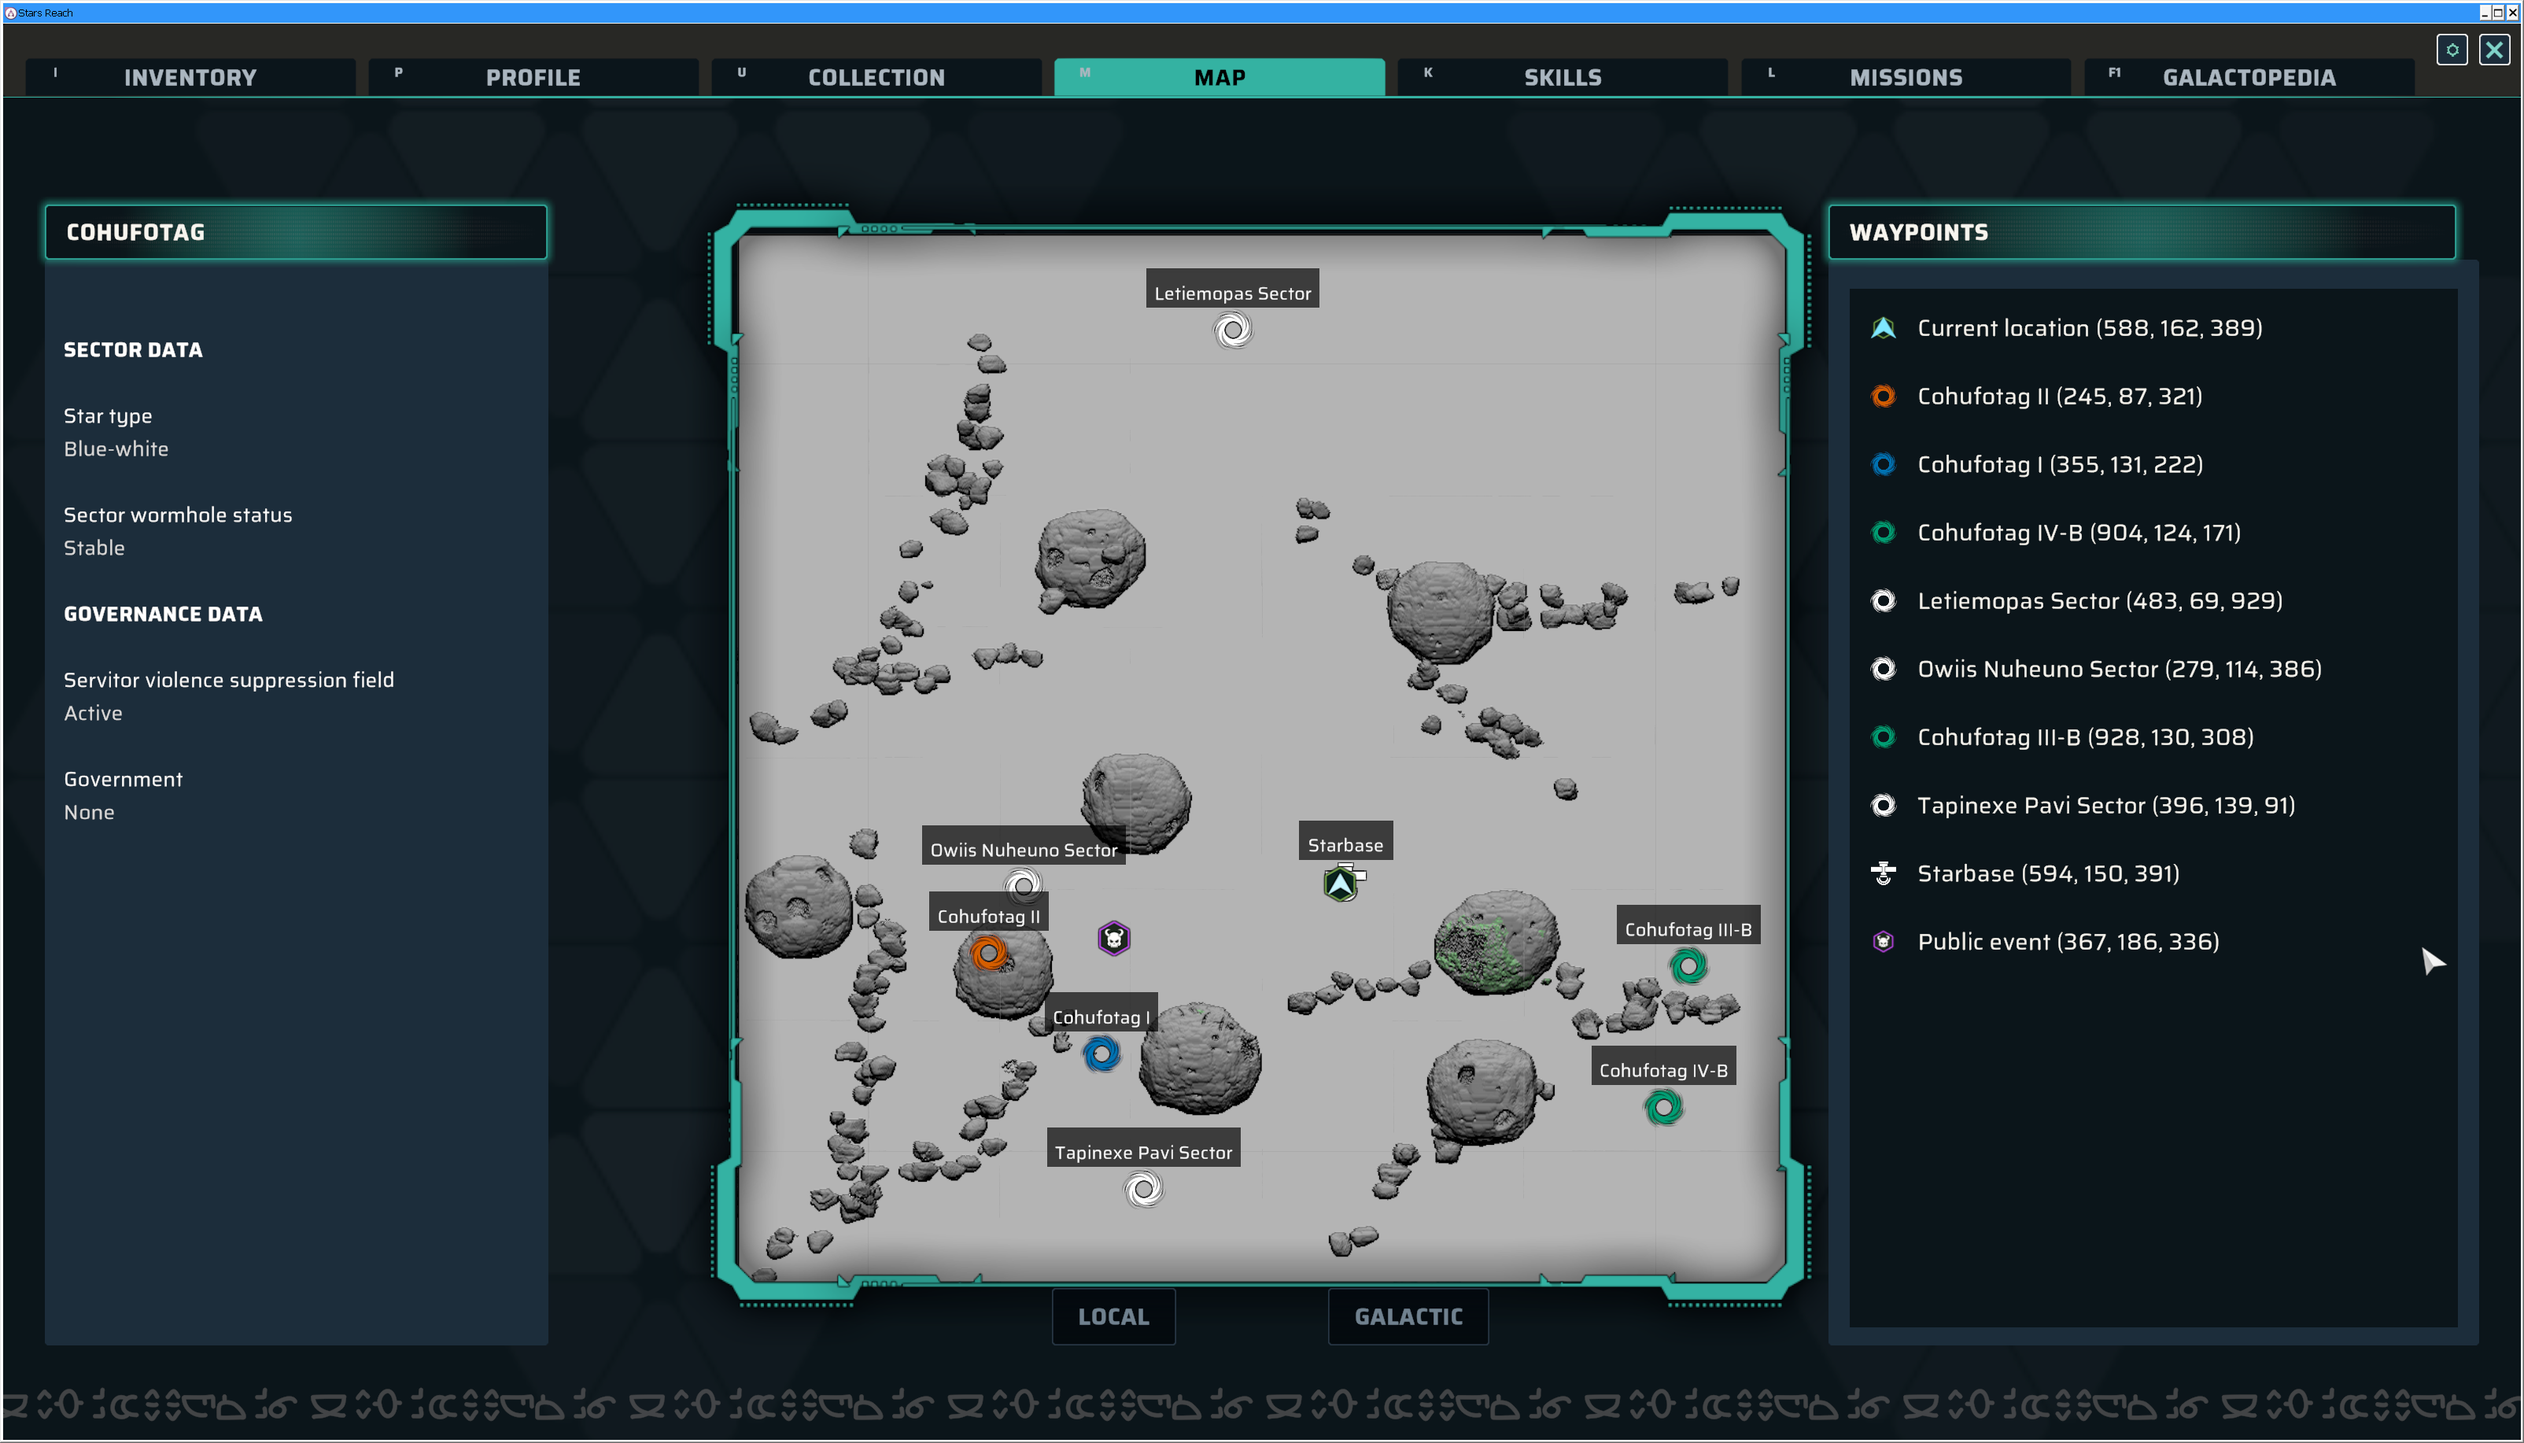
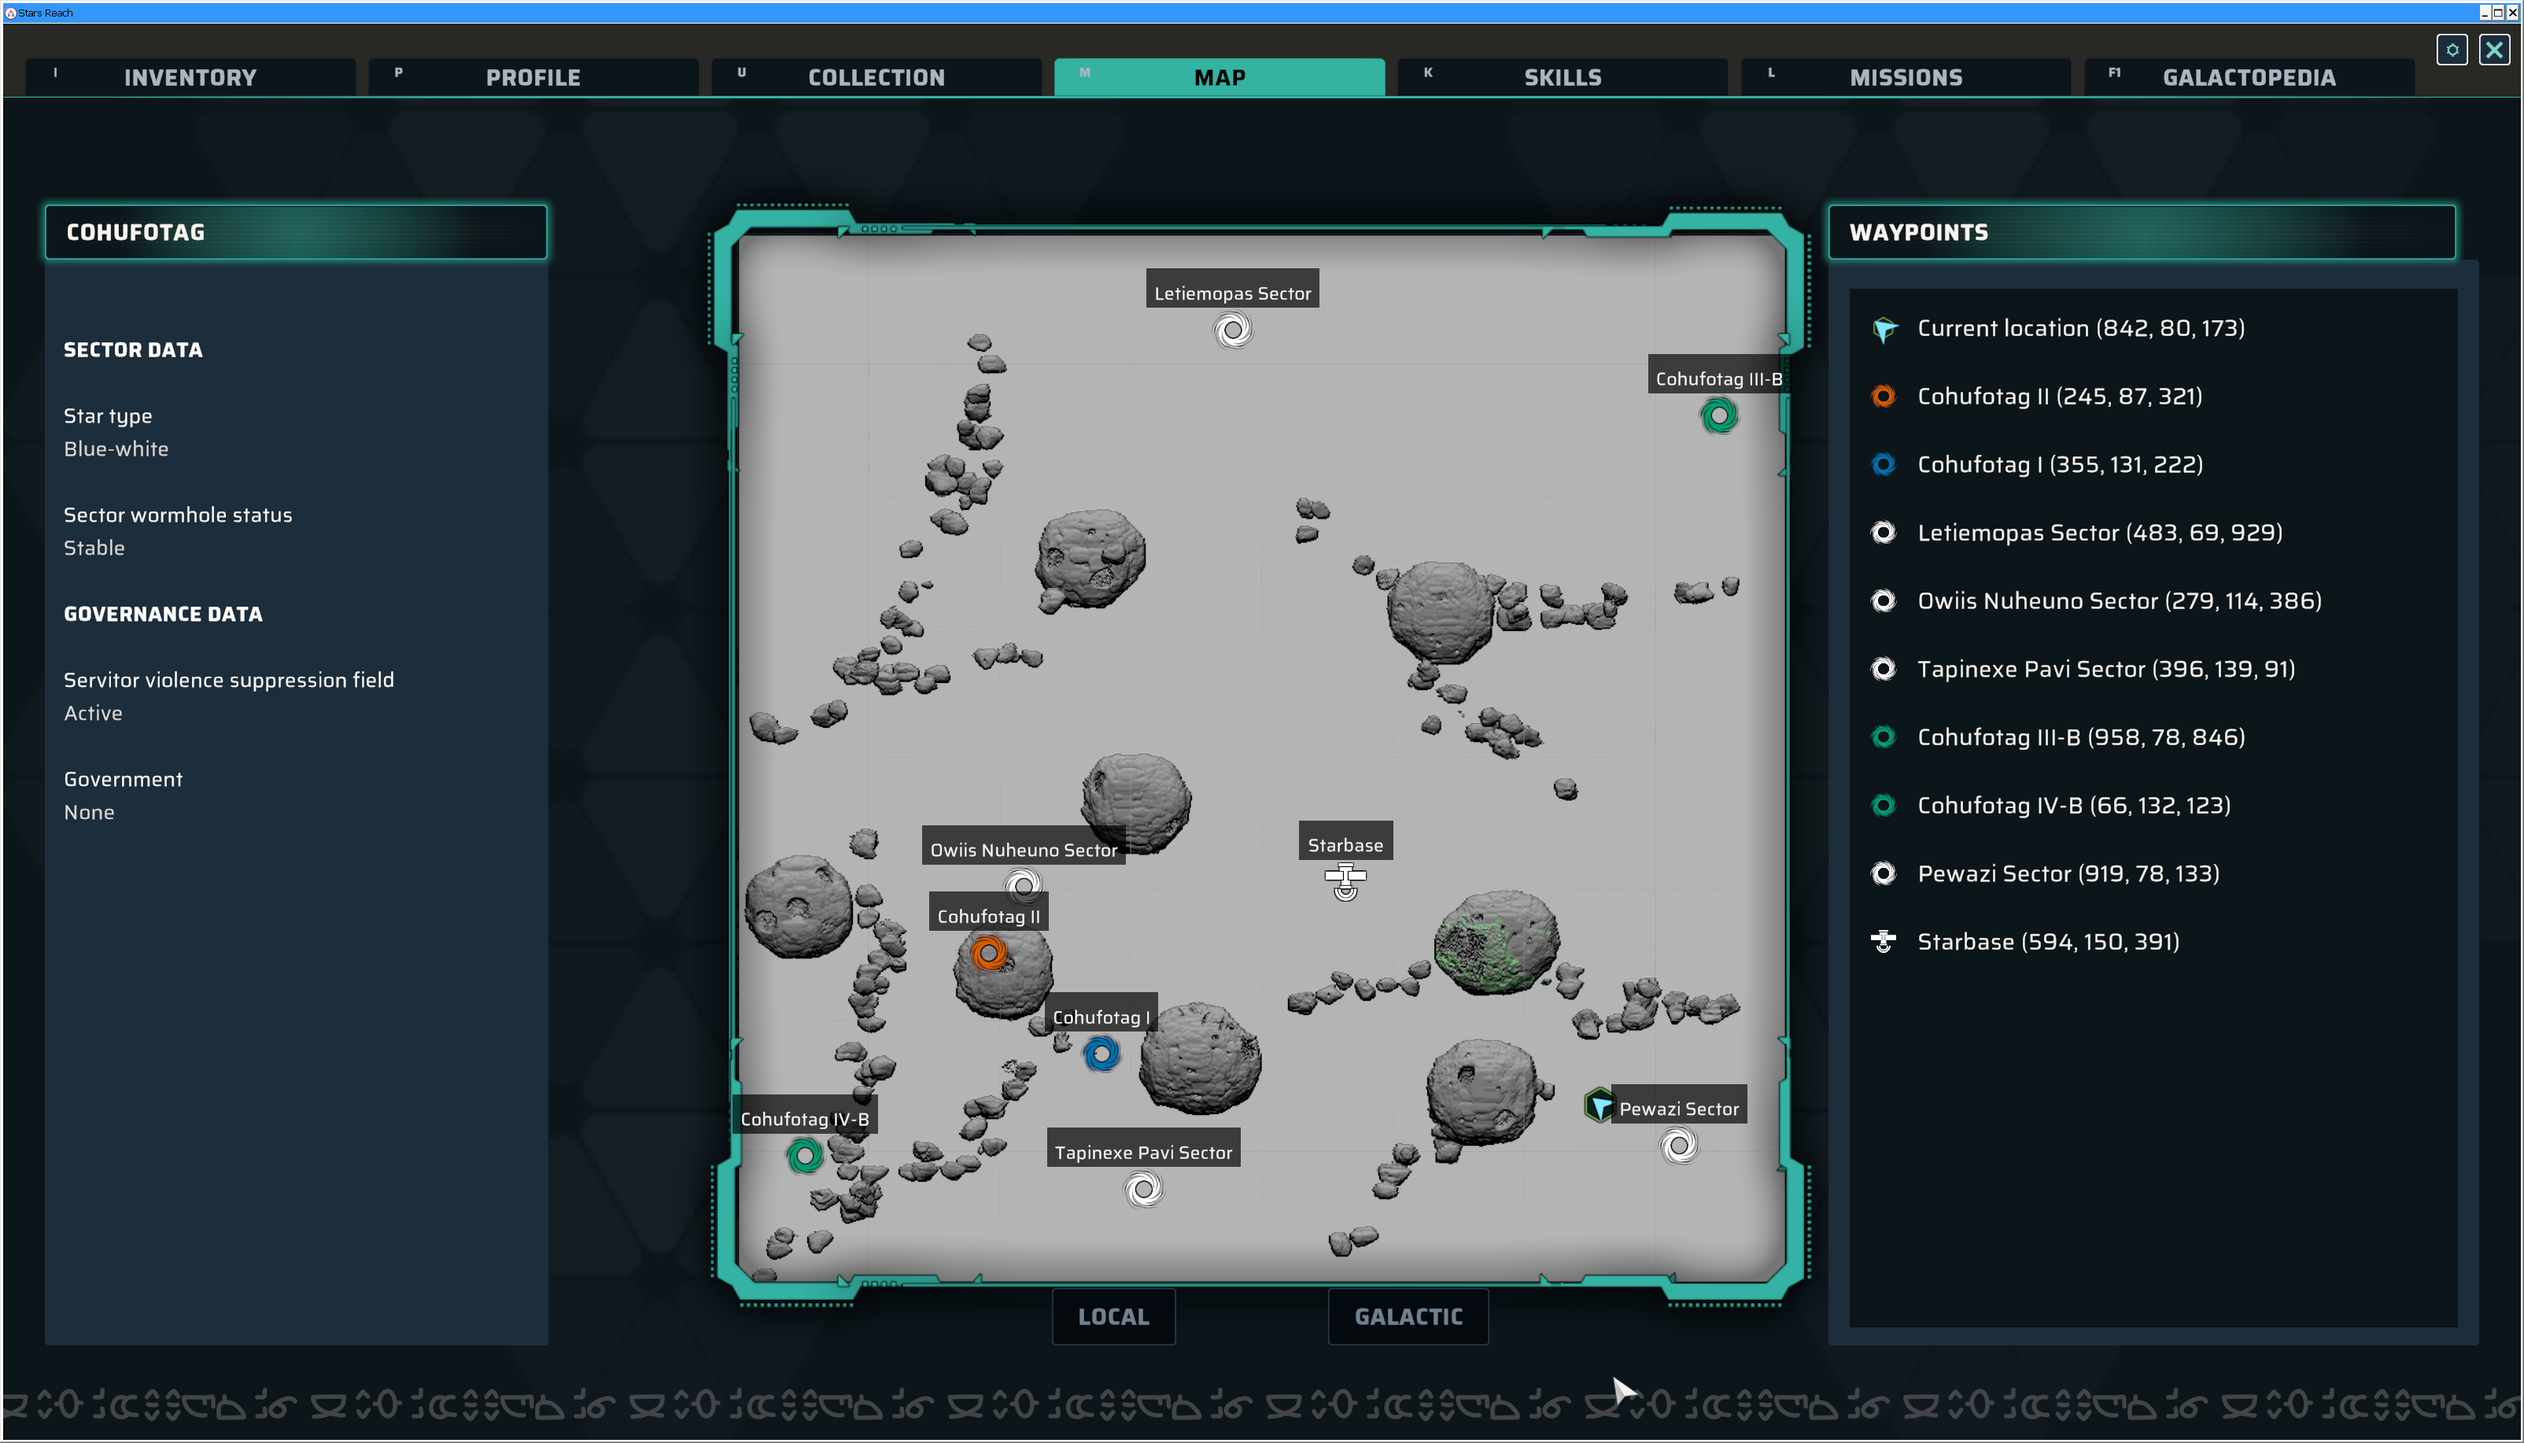
docs: add Pewazi, sector ecology and four govbot captures
Pewazi is reached through a temporary portal the game announces in chat. It
is a hub: connections to every other sector, no starbase, no planets, and
rich in the resources the servitor edicts currently ask for. A section with
only a Connections block is valid output.

Ecology for Cohufotag and Tapinexe Pavi, govbot data for Cohufotag I/II and
Tapinexe Pavi I/II. Tapinexe Pavi I carries the first non-empty flora edict
seen so far (Baobab).

CLAUDE.md records what none of this is visible from: edicts and resource
percentages are snapshots of a player-driven economy rather than constants,
so identical edicts across sectors mean players currently need the same
things. Sectors.md therefore states what has ever been reachable, not what
is reachable right now.

diff --git a/CLAUDE.md b/CLAUDE.md
@@ -14,6 +14,12 @@
 Player notes on the game *Stars Reach*. In-game screenshots are the source of
 truth; `tools/extract_sector.py` reads them with OCR and maintains `Sectors.md`.
 
+`Crafting.md` is the opposite: **hand-maintained**, transcribed from the two
+Galactopedia infographics under `media/screenshots/{Resources,Refining}/`. Their
+type is below what OCR can read — measured, the full-image pass returns about a
+quarter of the entries, with errors like "Bauxite -> inum" — so do not build an
+extractor for them. Read the images directly (crop and upscale) when updating.
+
 **`Sectors.md` is generated.** Do not hand-edit its content — the next tool run
 overwrites the sector sections. To change the *layout*, change `format_entry()`
 and `read_sector()` together, then regenerate.
@@ -34,9 +40,9 @@ Regenerate everything from scratch:
 
 ```bash
 printf '# Stars Reach - Sectors\n\n## Sectors\n' > Sectors.md
-for f in media/screenshots/*/map/image.png \
-         media/screenshots/*/ecology/image.png \
-         media/screenshots/*/*/govbot/image.png; do
+for f in media/screenshots/*/map/*.png \
+         media/screenshots/*/ecology/*.png \
+         media/screenshots/*/*/govbot/*.png; do
   python tools/extract_sector.py "$f" >/dev/null
 done
 ```
@@ -46,9 +52,9 @@ done
 The screenshot's path decides what a capture is and what it belongs to:
 
 ```text
-media/screenshots/<Sector>/map/image.png              # sector structure
-media/screenshots/<Sector>/ecology/image.png          # sector values
-media/screenshots/<Sector>/<Planet>/govbot/image.png  # planet values
+media/screenshots/<Sector>/map/*.png                  # sector structure
+media/screenshots/<Sector>/ecology/*.png              # sector values
+media/screenshots/<Sector>/<Planet>/govbot/*.png      # planet values
 ```
 
 Domain facts that are not visible in the code or the screenshots:
@@ -56,12 +62,34 @@ Domain facts that are not visible in the code or the screenshots:
 - The ecology dialog is titled "PLANET ECOLOGY" but describes the **sector**,
   including the edicts that govern farming in the sector's space. Only the
   govbot dialog is per-planet.
+- Edicts, health and the resource percentages are **snapshots of a
+  player-driven economy**, not constants. Identical edicts across sectors mean
+  players currently need the same resources, not that the values are fixed.
+  Treat them as "true when captured"; only connections and planets are
+  structural enough to accumulate.
 - Planets are named `<Sector> <designator>` (`Kai I`, `Kai III-C`). `locate()`
   relies on this to tell a planet directory from a screenshot type.
 - Each sector has two fixed planets (`I`, `II`) and two whose portals are not
-  always open (`III-x`, `IV-x`). A map capture without them is normal, so
-  **planets are only ever added, never removed**.
-- Sector connections are symmetric; the Mermaid graph deduplicates each pair.
+  always open (`III-x`, `IV-x`), and their coordinates move between captures.
+  Sector connections come and go the same way.
+- Some portals open only for a limited time and the game announces it in chat
+  ("the portal to Pewazi is now open"). A capture therefore shows what was
+  reachable at that moment, never the full set.
+- Therefore **connections and planets are only ever added, never removed**, and
+  a starbase is never unset. `Sectors.md` records what has *ever* been reachable,
+  not what is reachable right now, and a single capture is never evidence that
+  something is gone. This is also what makes the result independent of the order
+  captures are read in.
+- Sector connections are symmetric, but the *sections* need not be: a sector
+  whose capture predates a new neighbour will not list it. The Mermaid graph
+  unions both directions, so the edge still shows up.
+- Not every sector has a starbase or planets. `Pewazi` is a hub reached through
+  such a temporary portal: connections to every other sector, no starbase, no
+  planets, and rich in mined resources. A section with only a Connections block
+  is valid output, not a failed extraction.
+- The starbase sits at the same sector-relative coordinates (594, 150, 391) in
+  every sector that has one, so it is part of the sector layout. Waypoint
+  coordinates are relative to the sector they are viewed from.
 
 Every run rewrites the `## Connections` Mermaid graph from the sector sections,
 so `Sectors.md` stays the single source for the graph.

diff --git a/Sectors.md b/Sectors.md
@@ -8,18 +8,32 @@ graph LR
   Kai["Kai"]
   Letiemopas["Letiemopas"]
   Owiis_Nuheuno["Owiis Nuheuno"]
+  Pewazi["Pewazi"]
   Tapinexe_Pavi["Tapinexe Pavi"]
   Cohufotag --- Letiemopas
   Cohufotag --- Owiis_Nuheuno
+  Cohufotag --- Pewazi
   Cohufotag --- Tapinexe_Pavi
   Kai --- Owiis_Nuheuno
+  Kai --- Pewazi
   Kai --- Tapinexe_Pavi
   Letiemopas --- Owiis_Nuheuno
+  Letiemopas --- Pewazi
+  Owiis_Nuheuno --- Pewazi
+  Pewazi --- Tapinexe_Pavi
 ```
 
 ## Sectors
 
 ### Cohufotag
+
+#### Cohufotag - Information
+
+- Health: 95.1%
+- Minerals: Quantity 63%, Diversity 100%
+- Flora: Quantity 100%, Diversity 100%
+- Fauna: Quantity 100%, Diversity 100%
+- Servitor Edicts: Copper, Iron, Vesuvianite, Nickel, Tungsten
 
 #### Cohufotag - Connections
 
@@ -27,10 +41,19 @@ graph LR
 - Sector Connections
   - Letiemopas
   - Owiis Nuheuno
+  - Pewazi
   - Tapinexe Pavi
 - Planets
   - Cohufotag I
+    - Population: 111
+    - Mineral Edicts: Diamond
+    - Flora Edicts: None
+    - Fauna Edicts: None
   - Cohufotag II
+    - Population: 304
+    - Mineral Edicts: Gold, Iron, Titanium, Diamond, Magnetized Iron, Tin, Bismuth
+    - Flora Edicts: None
+    - Fauna Edicts: None
   - Cohufotag III-B
   - Cohufotag IV-B
 
@@ -49,6 +72,7 @@ graph LR
 - Starbase
 - Sector Connections
   - Owiis Nuheuno
+  - Pewazi
   - Tapinexe Pavi
 - Planets
   - Kai I
@@ -101,7 +125,26 @@ graph LR
   - Owiis Nuheuno III-C
   - Owiis Nuheuno IV-C
 
+### Pewazi
+
+#### Pewazi - Connections
+
+- Sector Connections
+  - Cohufotag
+  - Kai
+  - Letiemopas
+  - Owiis Nuheuno
+  - Tapinexe Pavi
+
 ### Tapinexe Pavi
+
+#### Tapinexe Pavi - Information
+
+- Health: 96.1%
+- Minerals: Quantity 71%, Diversity 100%
+- Flora: Quantity 100%, Diversity 100%
+- Fauna: Quantity 100%, Diversity 100%
+- Servitor Edicts: Copper, Iron, Vesuvianite, Nickel, Tungsten
 
 #### Tapinexe Pavi - Connections
 
@@ -111,6 +154,14 @@ graph LR
   - Kai
 - Planets
   - Tapinexe Pavi I
+    - Population: 64
+    - Mineral Edicts: Gold
+    - Flora Edicts: Baobab
+    - Fauna Edicts: None
   - Tapinexe Pavi II
+    - Population: 45
+    - Mineral Edicts: Copper, Gold, Granite, Titanium, Diamond
+    - Flora Edicts: None
+    - Fauna Edicts: None
   - Tapinexe Pavi III-B
   - Tapinexe Pavi IV-B

diff --git a/README.md b/README.md
@@ -9,19 +9,27 @@ ecology values and edicts, plus a Mermaid graph of how the sectors link up. It i
 by [`tools/extract_sector.py`](tools/extract_sector.py) — edit the screenshots or
 the tool, not the Markdown.
 
+[`Crafting.md`](Crafting.md) lists the resource categories and every refinery
+conversion. It is **hand-maintained**: those two Galactopedia infographics use
+type too small for OCR, so they are transcribed from the screenshots by hand and
+need re-checking after a patch.
+
 ## Contributing screenshots
 
 Take the screenshot at the resolution you play at and file it by what it shows:
 
 ```text
-media/screenshots/<Sector>/map/image.png              # the MAP tab, LOCAL view
-media/screenshots/<Sector>/ecology/image.png          # PLANET ECOLOGY - SUMMARY
-media/screenshots/<Sector>/<Planet>/govbot/image.png  # <PLANET> GOVBOT - CITIZENSHIP
+media/screenshots/<Sector>/map/<name>.png              # the MAP tab, LOCAL view
+media/screenshots/<Sector>/ecology/<name>.png          # PLANET ECOLOGY - SUMMARY
+media/screenshots/<Sector>/<Planet>/govbot/<name>.png  # <PLANET> GOVBOT - CITIZENSHIP
 ```
 
 The path is how the tool knows what a capture is, so the directory names matter:
 `<Sector>` as the game spells it, `<Planet>` as `<Sector> <designator>` — for
-example `media/screenshots/Kai/Kai I/govbot/image.png`.
+example `media/screenshots/Kai/Kai I/govbot/image.png`. The **file name is
+free**: drop several captures of the same view into one directory (`image-0.png`,
+`image-1.png`, …) to record how a sector changed over time. Connections and
+planets are merged across them, so no capture can remove what another found.
 
 **Resolution:** at least 1280px wide, and do not downscale to save space. Small
 images are enlarged before the text is read, so anything above that floor works;
